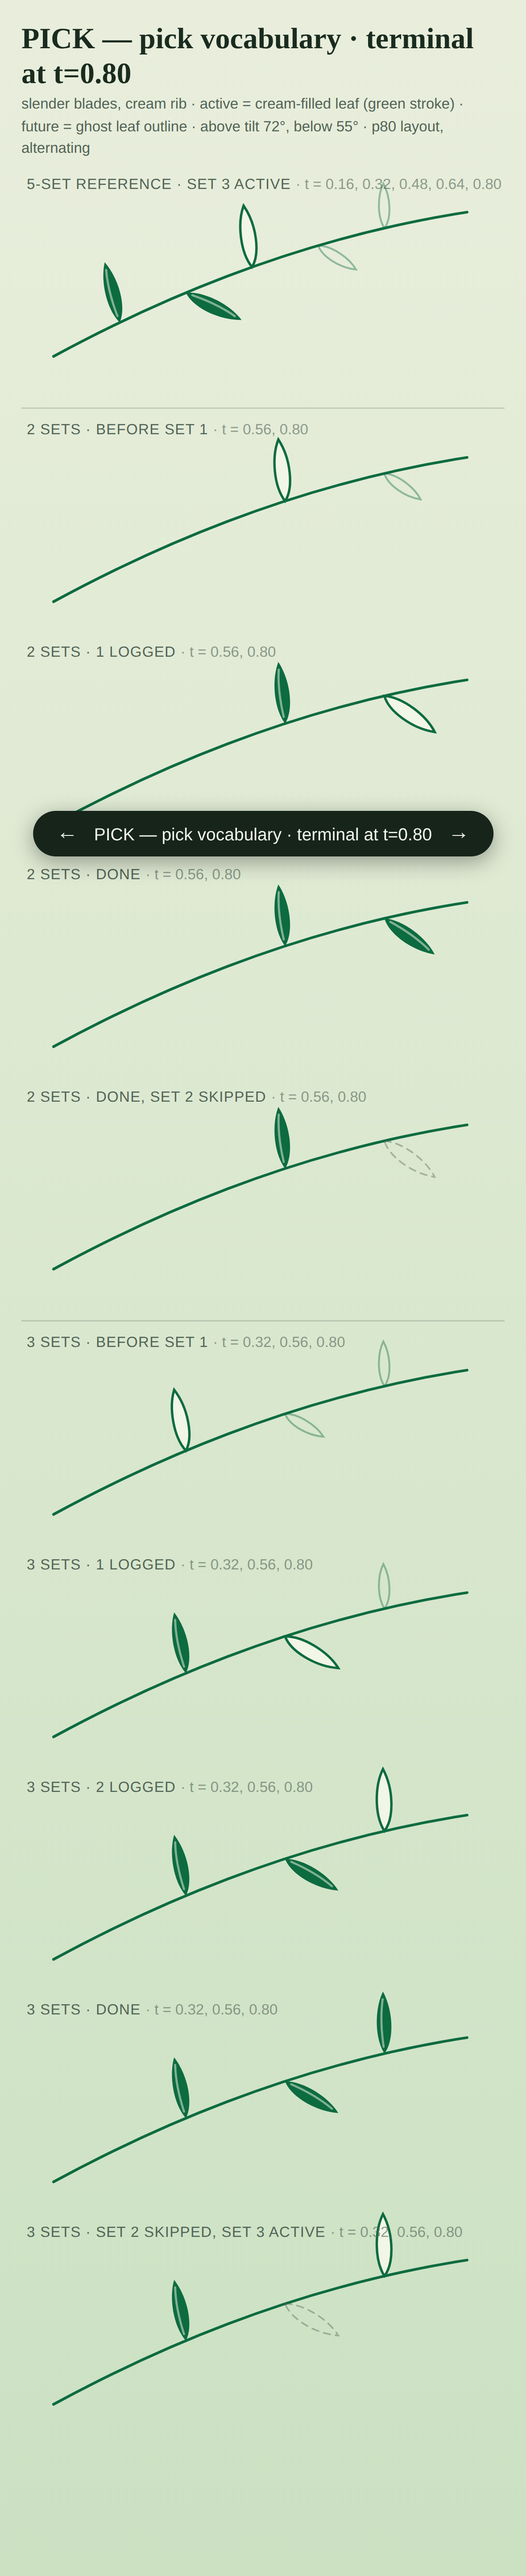
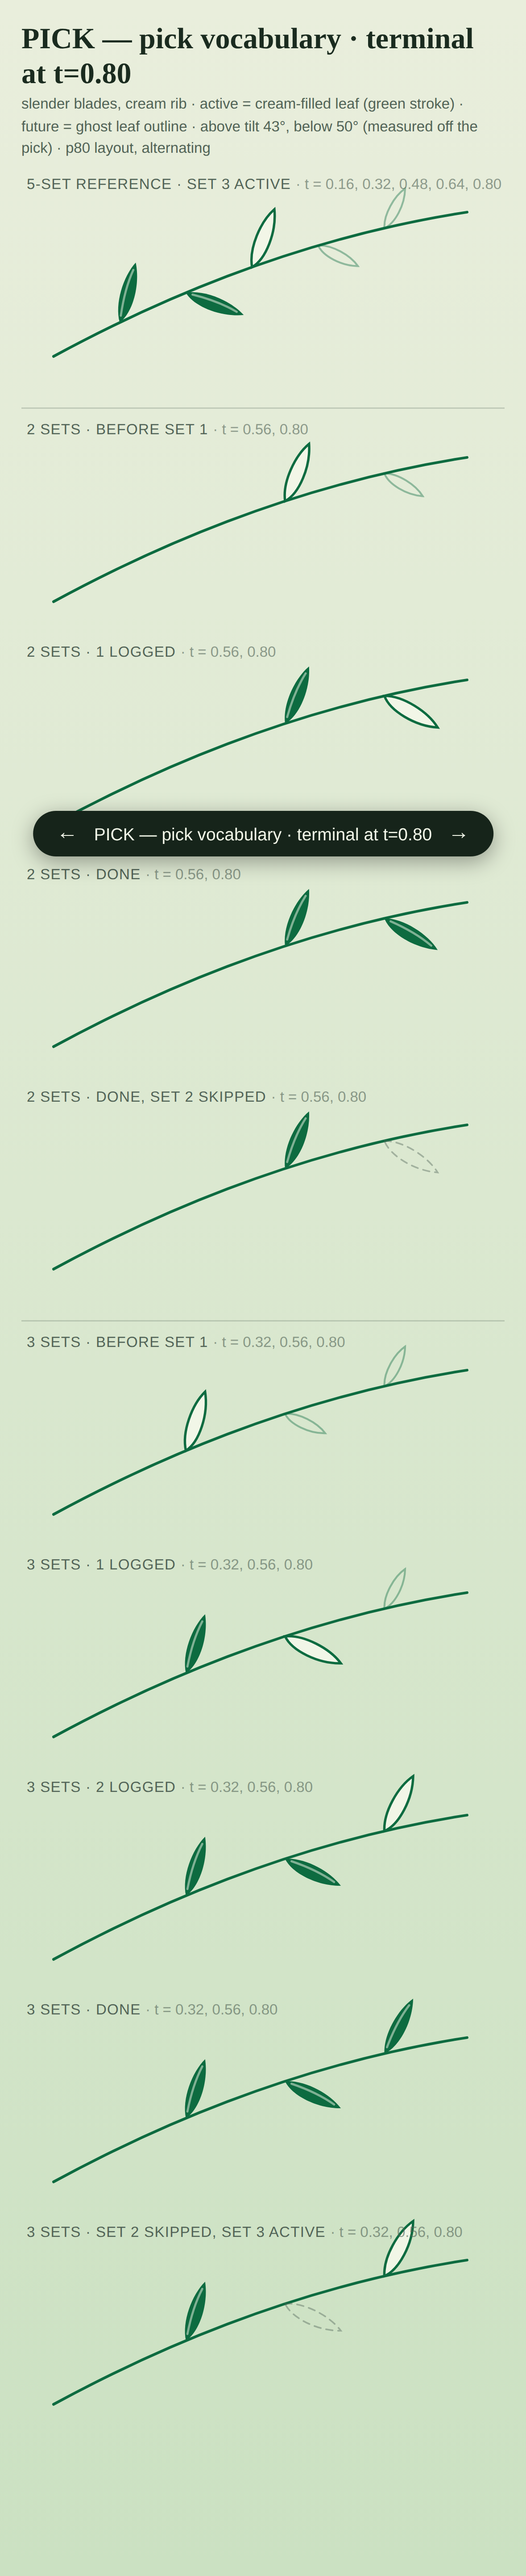
prototype(stage): match the pick's blade angles
Round 4's tilts were eyeballed too steep (above 72 deg read back-leaning
vertical). Measured off the pick: above-blades sit ~-60 deg absolute over a
~-18 deg stem tangent, below-blades ~+28 deg absolute — forward-leaning on
both sides. Tilts corrected to 43 deg above / 50 deg below off the tangent.

Claude-Session: https://claude.ai/code/session_01GbGqPumX89B5gosFkGyZbV

diff --git a/docs/prototypes/branch-low-set-prototype.html b/docs/prototypes/branch-low-set-prototype.html
@@ -168,7 +168,7 @@ function centeredT(i, n, first, last, maxStep) {
 function pickConfig(p) {
   return {
     name: `pick vocabulary · terminal at t=${p.toFixed(2)}`,
-    knobs: `slender blades, cream rib · active = cream-filled leaf (green stroke) · future = ghost leaf outline · above tilt 72°, below 55° · p80 layout, alternating`,
+    knobs: `slender blades, cream rib · active = cream-filled leaf (green stroke) · future = ghost leaf outline · above tilt 43°, below 50° (measured off the pick) · p80 layout, alternating`,
     stem: (w) => fullStem(w),
     nodeT: (i, n) => {
       if (n <= 1) return p;
@@ -177,8 +177,10 @@ function pickConfig(p) {
     },
     above: (i) => i % 2 === 0,
     leafLen: () => BASE.leafLen,
-    aboveTilt: 72,
-    belowTilt: 55,
+    // Measured off the pick: above-blades ≈ -60° absolute over a ≈ -18°
+    // tangent; below-blades ≈ +28° absolute — forward-leaning both sides.
+    aboveTilt: 43,
+    belowTilt: 50,
   };
 }
 const oldConfigs = {
